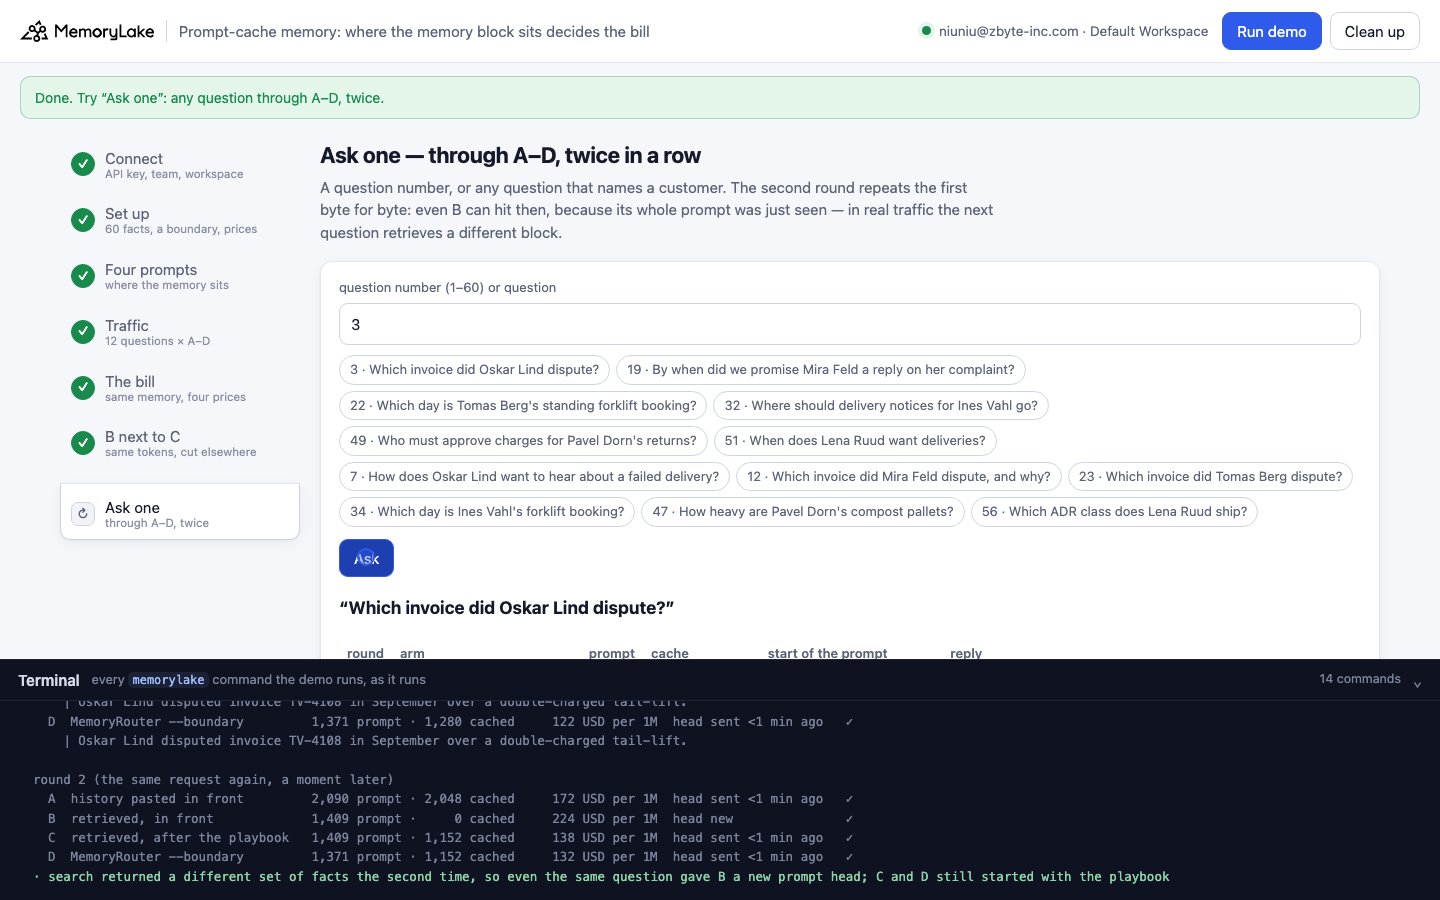
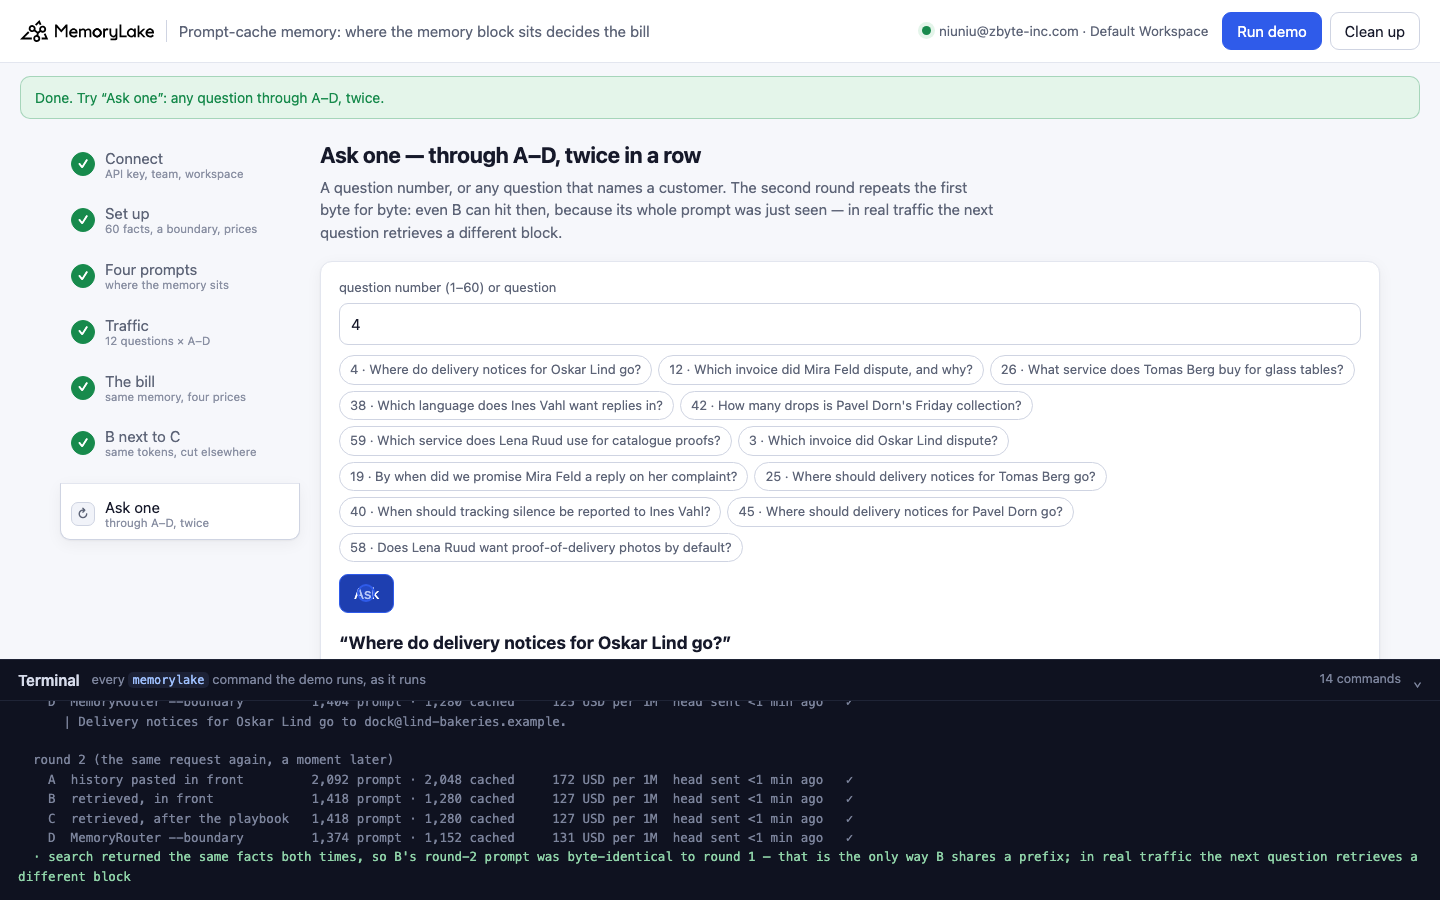
prompt-cache-memory: video links; measured over all 6 runs

diff --git a/prompt-cache-memory/web/static/app.js b/prompt-cache-memory/web/static/app.js
@@ -136,7 +136,7 @@
     const nums = S.qs.length ? S.qs.map((q) => q.rows[0].pool) : [1, 12, 23, 37, 44, 57];
     const qs = nums.map((k) => ({ k, text: pool[k - 1]?.text || "" }));
     return `<h1>Ask one — through A–D, twice in a row</h1>
-      <p class="lead">A question number, or any question that names a customer. The second round repeats the first byte for byte: even B can hit then, because its whole prompt was just seen — in real traffic the next question retrieves a different block.</p>
+      <p class="lead">A question number, or any question that names a customer. The second round sends the same question again: if <code>search</code> returns the same facts, B's prompt is byte-identical and can hit — the only way B shares a prefix. In real traffic the next question retrieves a different block.</p>
       <div class="card"><label for="t-q">question number (1–60) or question</label><input id="t-q" value="${esc(S.tq)}">
         <div class="chips">${qs.map((q) => `<button class="chip" data-q="${q.k}">${q.k} · ${esc(q.text)}</button>`).join("")}</div>
         <div class="row" style="margin-top:12px"><button class="btn primary" data-act="try" ${ready && !running() ? "" : "disabled"}>Ask</button>${ready ? "" : '<span class="muted small">Run the demo first.</span>'}</div>

diff --git a/prompt-cache-memory/demo.py b/prompt-cache-memory/demo.py
@@ -819,7 +819,7 @@ def cleanup(cli: CLI, quiet: bool = False) -> None:
         rep.rename(OUT / "runs" / f"report-{datetime.now(timezone.utc):%Y%m%dT%H%M%SZ}.json")
 
 
-EXAMPLE = "4"
+EXAMPLE = "37"
 
 
 def main() -> None:

diff --git a/prompt-cache-memory/README.md b/prompt-cache-memory/README.md
@@ -4,7 +4,8 @@ A runnable version of the MemoryLake use case
 [*Cut Agent Memory Costs 10-100x at Production Scale*](https://www.memorylake.ai/en/usecase/cost-optimized-agent-memory-at-scale),
 built entirely on the [`memorylake` CLI](https://github.com/memorylake-ai/memorylake-cli) (v20261015 or later).
 
-**Watch it run:** videos are being recorded.
+**Watch it run:** [CLI, 4:35](https://github.com/memorylake-ai/memorylake-usecases/releases/download/prompt-cache-memory-v1/prompt-cache-memory-cli-demo.mp4) · [Web, 5:00](https://github.com/memorylake-ai/memorylake-usecases/releases/download/prompt-cache-memory-v1/prompt-cache-memory-web-demo.mp4)
+([release](https://github.com/memorylake-ai/memorylake-usecases/releases/tag/prompt-cache-memory-v1); GitHub serves them as downloads). Both were recorded after the provider's cache from earlier runs had expired; both are counted in the Measured table below.
 
 **The problem.** Retrieving a few hundred tokens of memory instead of pasting a customer's whole history makes every
 prompt smaller. The page also promises "prompt cache compatibility": a model provider bills the start of a prompt at
@@ -20,11 +21,13 @@ Q3  "What payment terms does Tomas Berg have?"
 
 Tessavane Freight (a fictional carrier) runs a support assistant, Dock. Every request carries the same handling
 playbook (969 words, about 1,300 tokens, shared by every customer) and what Dock remembers about the customer asking. Over
-3 full runs (36 questions each way), B and C sent **exactly the same number of tokens on 36 of 36 questions** and were
-right 35 of 36 times each. C was read from the cache **36 of 36** times. B was read from the cache 5 times, and every
-one of those 5 requests started with a memory block sent minutes earlier, by an earlier run of this demo. On prompts whose start had not been sent
-before, B hit **0 of 31** times. Priced from the account's own `router models` list (gpt-4o-mini: input 0.15,
-cache_read 0.075 USD per million tokens), B cost **206 USD per million calls**, C **131** and MemoryRouter (D) **128**.
+6 full runs (72 questions each way), B and C sent **exactly the same number of tokens on 72 of 72 questions** and were
+right 71 of 72 times each. C was read from the cache **70 of 72** times (the two misses were the first request of a
+run, before anything had warmed the cache). B was read from the cache 13 times. Every one of those 13 requests started
+with a memory block that had been sent minutes earlier, because the same question drew the same facts in an earlier run of this demo. On
+prompts whose start had not been sent before, B hit **0 of 58** times. Priced from the account's own `router models`
+list (gpt-4o-mini: input 0.15, cache_read 0.075 USD per million tokens), B cost **202 USD per million calls**, C **134**
+and MemoryRouter (D) **130**.
 
 ## What it shows
 
@@ -35,15 +38,15 @@ cache_read 0.075 USD per million tokens), B cost **206 USD per million calls**, 
   question, so their memory block is identical. B puts it first and C puts it last. The token counts match exactly,
   but B gets a cache miss on every prompt whose start is new.
 - **MemoryRouter keeps the shared part first.** D sends only the playbook as the system prompt. `--boundary`
-  attaches the memory after it, so 36 of 36 calls were read from the cache, with no retrieval code in the app.
+  attaches the memory after it, so 71 of 72 calls were read from the cache, with no retrieval code in the app.
 - **A stuffed customer file can also be cached, but only per customer.** Arm A pastes the customer's whole ticket
   history in front of the playbook. Each customer asks twice within about two minutes here, and the file is the
-  same bytes each time, so A hit 35 of 36 times (92% of its tokens cached). It still sends about 47% more tokens than
+  same bytes each time, so A hit 63 of 72 times (83% of its tokens cached; it misses on each customer's first question when the cache is cold). It still sends about 47% more tokens than
   B or C, and in production a customer rarely comes back while their file is still in the cache.
-- **The same tokens do not mean the same words.** B and C replied word for word the same on 23 of 36 questions; the
-  rest differ in phrasing, not in the fact given (both were right 35 of 36 times). Ines Vahl's memory says she
-  prefers German: B and D each answered her once in German (of 6), A and C never, so the order showed no consistent
-  effect on language here.
+- **The same tokens do not mean the same words.** B and C replied word for word the same on 50 of 72 questions. The
+  rest differ in phrasing, not in the fact given (both were right 71 of 72 times). Ines Vahl's memory says she
+  prefers German: of 12 answers to her questions per arm, B answered in German twice, C once, D twice and A never.
+  The order showed no consistent effect on language here.
 - **Retrieval can still miss.** "Can we book a new collection for Ines Vahl this week?" once got a top-5 without the
   credit-hold fact: B and C both said yes or "no information", while D (MemoryRouter) answered correctly. The demo
   grades every reply and prints ✗.
@@ -164,19 +167,24 @@ times, B's second prompt is byte-identical to its first and can hit the cache. T
 
 ## Measured
 
-Every run below is a full run on a free account. Hits count calls with `cached_tokens > 0`; "B, head new" counts B's
-calls whose first ~1,000 tokens had not been sent from this folder in the last hour.
+Every run below is a full run of the final version on a free account. Hits count calls with `cached_tokens > 0`; "B, head new"
+counts B's calls whose first ~1,000 tokens had not been sent from that folder in the last hour.
 
 | run | cache hits (A · B · C · D) | B, head new: hits | B = C tokens | right (A · B · C · D) | USD per 1M calls (A · B · C · D) |
 |---|---|---|---|---|---|
 | run 1 | 12/12 · 3/12 · 12/12 · 12/12 | 3/12 | 12/12 | 12/12 · 12/12 · 12/12 · 12/12 | 171 · 195 · 129 · 126 |
 | run 2 | 12/12 · 0/12 · 12/12 · 12/12 | 0/12 | 12/12 | 12/12 · 11/12 · 11/12 · 12/12 | 173 · 221 · 133 · 130 |
 | `--reset` | 11/12 · 2/12 · 12/12 · 12/12 | 1/11 | 12/12 | 12/12 · 12/12 · 12/12 · 12/12 | 184 · 203 · 130 · 127 |
-| **total (3 runs)** | **35/36 · 5/36 · 36/36 · 36/36** | **4/35** | **36/36** | **36/36 · 35/36 · 35/36 · 36/36** | **176 · 206 · 131 · 128** |
+| browser check | 10/12 · 8/12 · 11/12 · 12/12 | 1/4 | 12/12 | 12/12 · 12/12 · 12/12 · 12/12 | 195 · 156 · 134 · 126 |
+| CLI recording (cold cache) | 6/12 · 0/12 · 11/12 · 11/12 | 0/12 | 12/12 | 12/12 · 12/12 · 12/12 · 12/12 | 246 · 221 · 142 · 140 |
+| Web recording | 12/12 · 0/12 · 12/12 · 12/12 | 0/12 | 12/12 | 12/12 · 12/12 · 12/12 · 12/12 | 172 · 219 · 133 · 128 |
+| **total (6 runs)** | **63/72 · 13/72 · 70/72 · 71/72** | **5/63** | **72/72** | **72/72 · 71/72 · 71/72 · 72/72** | **190 · 202 · 134 · 130** |
 
-The 4 "head new" hits for B were all questions that the demo's unlogged development runs had asked 10–20 minutes
-earlier, with the same retrieved facts. The provider still had those prompts cached. Not counting them, B hit 0 of 31.
-Share of prompt tokens read from the cache: A 92% · B 13% · C 85% · D 86%.
+Where B's 13 hits came from: 8 were requests whose start had been sent minutes earlier from the same folder (8 of
+the 9 such requests hit). The other 5 were questions that the demo's earlier development runs had asked 10–20 minutes before, with
+the same retrieved facts. Those runs kept no log, so the requests show as "head new". On every other request, B hit 0 of 58.
+The browser check ran right after four other runs and drew many repeated questions; since then, each draw leaves out questions
+asked from the folder in the last hour. Share of prompt tokens read from the cache: A 83% · B 17% · C 82% · D 84%.
 
 ## Use it in your own app
 

diff --git a/README.md b/README.md
@@ -145,7 +145,7 @@ that memory can hold once it is more than coding sessions.
 | [offline-sync-memory](offline-sync-memory/) | Engineering (edge-deployed agents) | A store kiosk goes offline for 70 s: it answers from a snapshot and writes customers' requests down while HQ changes some of the same orders. On reconnect, replaying the kiosk's transcript (each message with its own `--timestamp`) lets MemoryLake's extractor apply the requests in arrival order — a request heard 30 s before HQ's change overwrites it, or the requests vanish. A version check (`updated_at` unchanged since the snapshot) never overwrites but also holds a request made after HQ's change. Comparing the request's time with the order's last write (`fact trace`) is right on every order | ~3 min | [CLI 4:05](https://github.com/memorylake-ai/memorylake-usecases/releases/download/offline-sync-memory-v1/offline-sync-memory-cli-demo.mp4) · [Web 3:45](https://github.com/memorylake-ai/memorylake-usecases/releases/download/offline-sync-memory-v1/offline-sync-memory-web-demo.mp4) |
 | [recurring-failure-memory](recurring-failure-memory/) | Engineering (agents recovering from tool failures) | A nightly billing agent hits the same HTTP 429 on `export_invoices` four times in six nights. Sent as run logs, MemoryLake's extractor keeps the lesson (what the failure is, which recovery worked) but merges the repeats: four failures leave one to five facts and two to six `fact trace` entries, and a repeat that teaches nothing new changes nothing. The pre-call rule "3+ of the same failure in 7 days → open a systematic fix" counted short in 10 of 12 runs and never fired in 6. One typed record per failure (`fact add` + `fact update --metadata`, read back with `fact list --query` + metadata filter) counts 4 every run and fires on the third. CLI runner plus a local web UI | ~4 min | [CLI 5:00](https://github.com/memorylake-ai/memorylake-usecases/releases/download/recurring-failure-memory-v1/recurring-failure-memory-cli-demo.mp4) · [Web 5:21](https://github.com/memorylake-ai/memorylake-usecases/releases/download/recurring-failure-memory-v1/recurring-failure-memory-web-demo.mp4) |
 | [ruled-out-memory](ruled-out-memory/) | Engineering (ReAct agent loops) | An investigation agent's ReAct loop rules out four suspects for a checkout latency incident, finds a lead, and runs out of steps; the next run asks memory what was already established. Stored as a text scratchpad, extraction kept the lead in all 8 runs and the four rule-outs 0 of 32 times; the resumed plan re-checked dead ends 26 times in 96 picks. One `fact add` record per iteration: 0 re-checks, but asked about suspects nobody checked, the model said "already ruled out" 29 of 47 times; one coverage record ("nothing else is ruled out") brought that to 0 of 48. | ~4 min | [CLI 5:59](https://github.com/memorylake-ai/memorylake-usecases/releases/download/ruled-out-memory-v1/ruled-out-memory-cli-demo.mp4) · [Web 6:14](https://github.com/memorylake-ai/memorylake-usecases/releases/download/ruled-out-memory-v1/ruled-out-memory-web-demo.mp4) |
-| [prompt-cache-memory](prompt-cache-memory/) | Engineering (agent cost at scale) | A support assistant sends the same 1,300-token playbook with every request plus what it remembers about the customer. Retrieved memory placed in front of the playbook (B) and after it (C): exactly the same tokens on 36 of 36 questions, the same accuracy, but C was read from the provider's prompt cache 36 of 36 times and B only on repeats of a request sent minutes earlier (0 of 31 otherwise). Priced from `router models`: B 206, C 131, MemoryRouter `--boundary` 128 USD per million calls. | ~3 min | Recording |
+| [prompt-cache-memory](prompt-cache-memory/) | Engineering (agent cost at scale) | A support assistant sends the same 1,300-token playbook with every request plus what it remembers about the customer. Retrieved memory placed in front of the playbook (B) and after it (C): exactly the same tokens on 72 of 72 questions and the same accuracy, but C was read from the provider's prompt cache 70 of 72 times, and B only on repeats of a request sent minutes earlier (0 of 58 otherwise). Priced from `router models`: B 202, C 134, MemoryRouter `--boundary` 130 USD per million calls. | ~3 min | [CLI 4:35](https://github.com/memorylake-ai/memorylake-usecases/releases/download/prompt-cache-memory-v1/prompt-cache-memory-cli-demo.mp4) · [Web 5:00](https://github.com/memorylake-ai/memorylake-usecases/releases/download/prompt-cache-memory-v1/prompt-cache-memory-web-demo.mp4) |
 
 The videos are real, unedited recordings; every asset lives on the [releases page](https://github.com/memorylake-ai/memorylake-usecases/releases).
 
